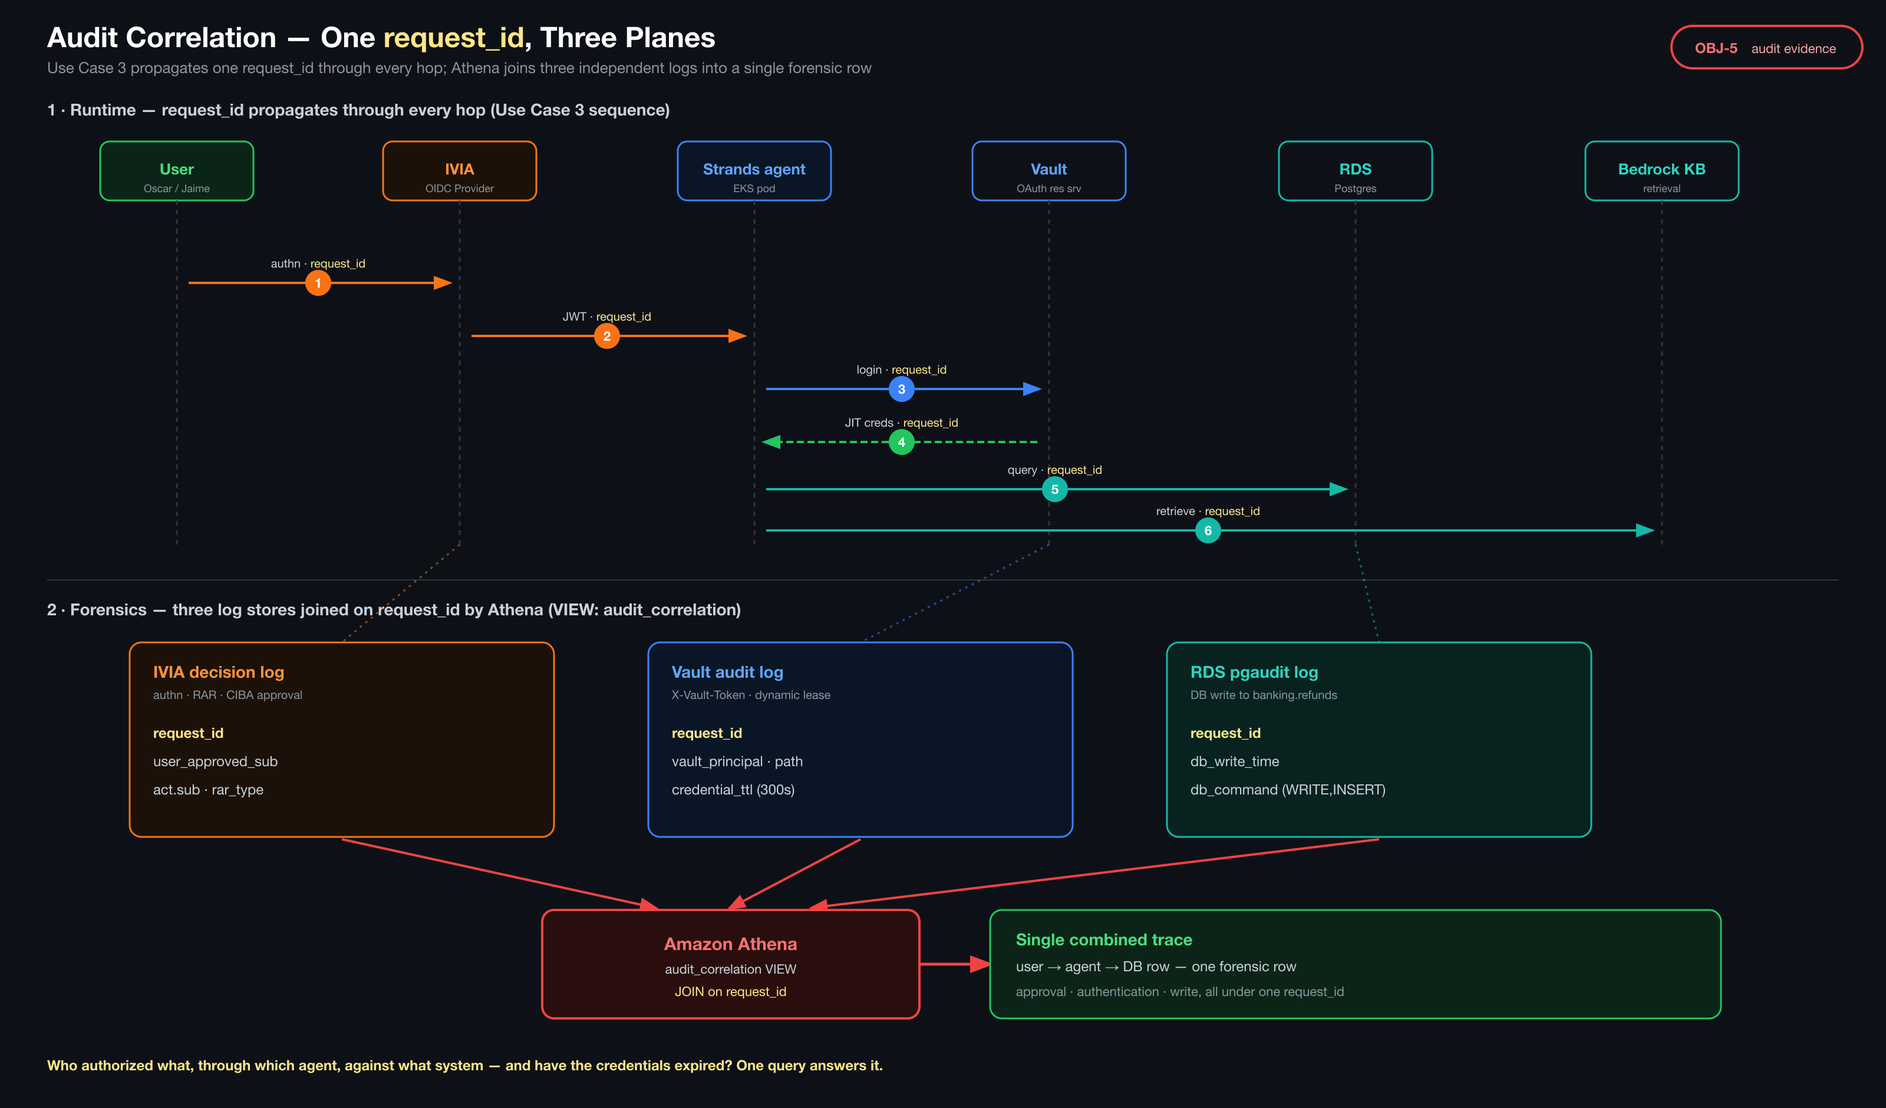
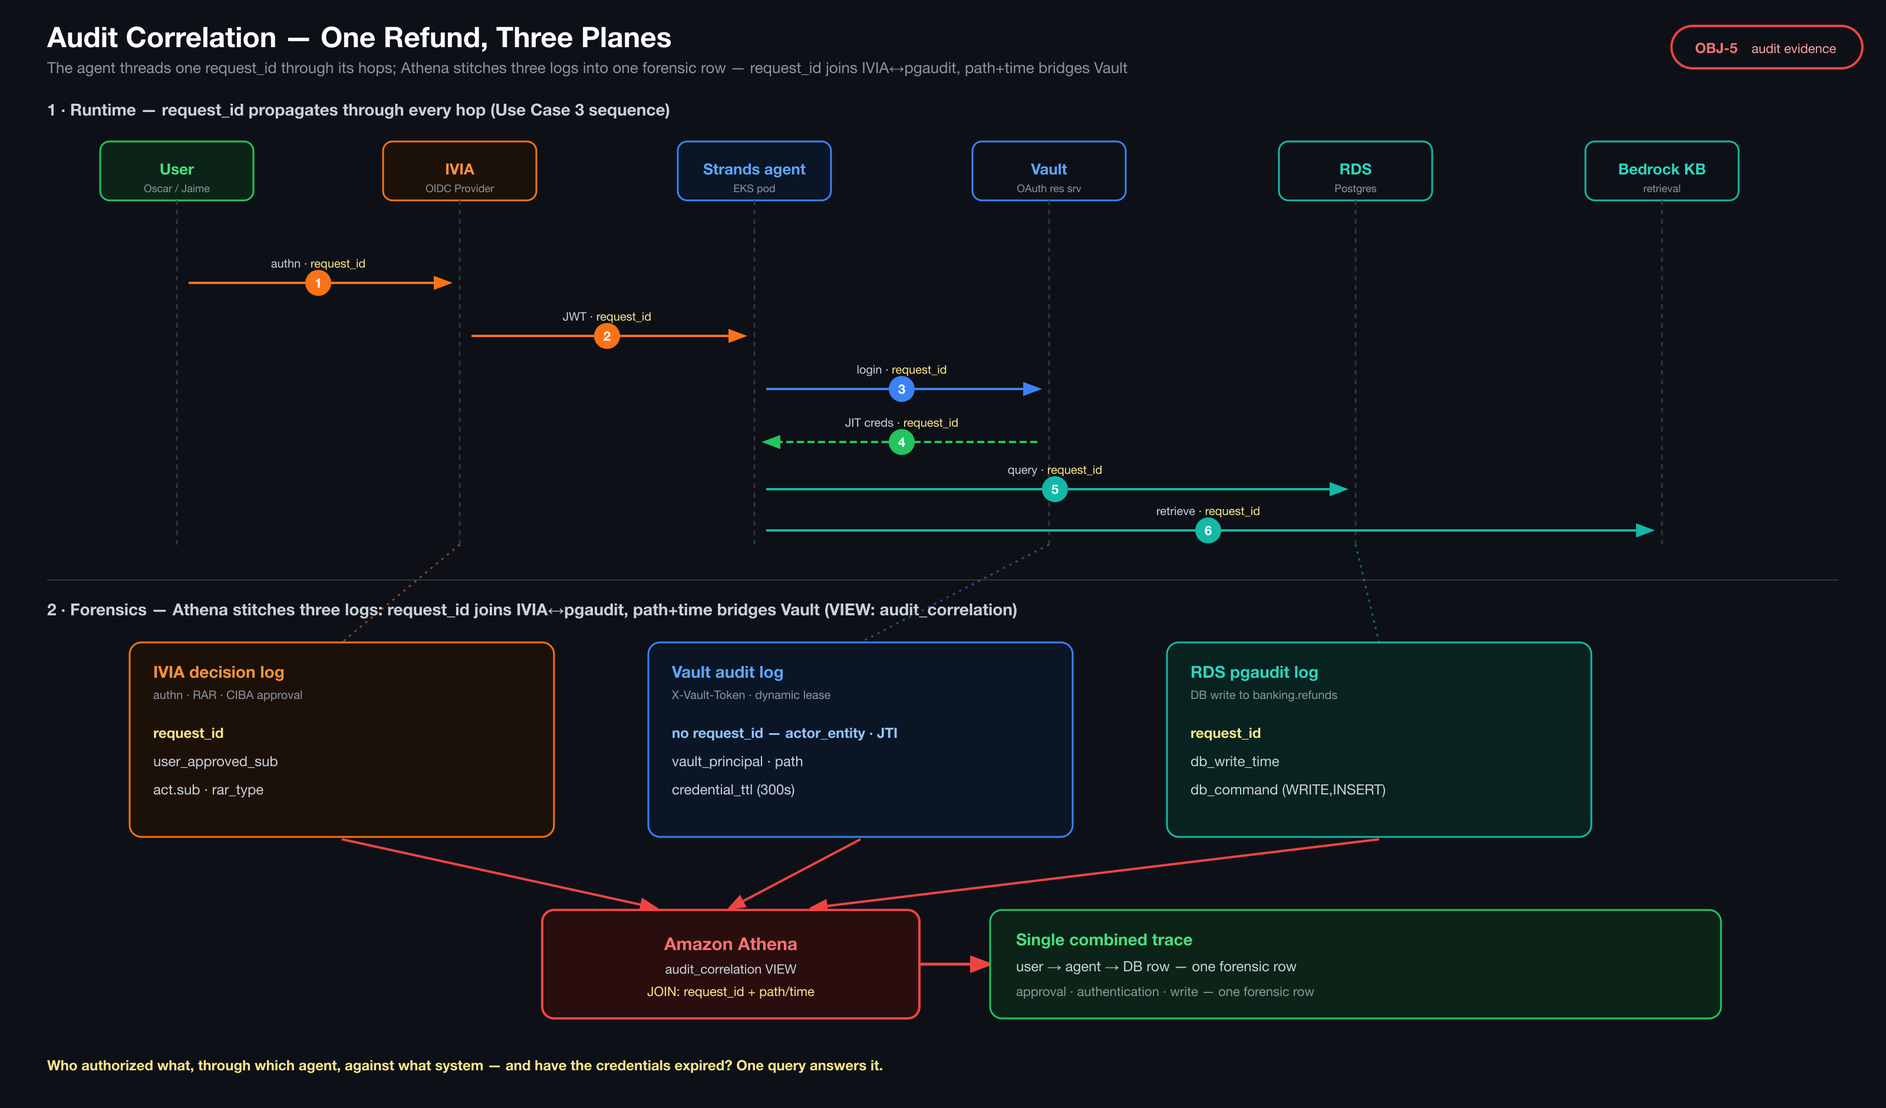
fix(content,deck,diagrams): correct three-plane audit correlation to native model
Native Vault audit logs neither the request_id nor the human sub — only the
delegated token's JTI (auth.display_name) and the resolved agent (uc3-actor). So
'request_id joins all three planes' / 'request_id present in all three planes' is
false for the Vault plane: request_id links the IVIA approval to the pgaudit write;
the Vault authentication binds into the same forensic row by credential path +
sub-second time-proximity to the approval (the same mechanism as the corrected
audit_correlation VIEW). Fixes the overclaim in five-control-objectives (OBJ-5 +
UC3 expand), 74-three-plane-audit (intro, OBJ-5 row, interpretation), 85-summary
(line 25 contradicted line 35), the deck audit slide + speaker notes (which still
described the retired display_name=sub join and sourced vault_agent_registry_id
from ivia.client_id), and the audit-correlation / vault-authorization-flow /
architecture-overview diagrams (PNGs regenerated via package-assets.sh).

diff --git a/workshop/content/70-use-case-3/74-three-plane-audit/index.en.md b/workshop/content/70-use-case-3/74-three-plane-audit/index.en.md
@@ -3,7 +3,7 @@ title: 'Three-Plane Audit Correlation'
 weight: 74
 ---
 
-Each plane logs the same refund independently: IVIA records *who approved*, Vault records *which agent authenticated — by its Agent Registry identity — and the exact path it was scoped to*, and Postgres records *the write that landed*. The `audit_correlation` Athena VIEW stitches all three together on the shared `request_id`, so a single query returns one forensic row spanning approval, authentication, and database write. It was created automatically during Use Case 3 deployment — you only query it.
+Each plane logs the same refund independently: IVIA records *who approved*, Vault records *which agent authenticated — by its Agent Registry identity — and the exact path it was scoped to*, and Postgres records *the write that landed*. The `audit_correlation` Athena VIEW stitches all three together: `request_id` is the shared key between the IVIA approval and the Postgres write, and the Vault authentication binds into the same row by its credential path and its sub-second time-proximity to the approval. A single query returns one forensic row spanning approval, authentication, and database write. It was created automatically during Use Case 3 deployment — you only query it.
 
 Under the native OAuth resource server model, the Vault audit event no longer carries a hand-rolled `may_act` bound-claim; it carries the **agent-registry** identity Vault resolved from the delegated token's `act.sub` claim (`uc3-actor`) and the per-request `vault:path_access` path Vault enforced. Those two fields are what surface in the correlation row below.
 
@@ -17,7 +17,7 @@ Use Case 3 culminates in a single Athena query that answers all five workshop ob
 | OBJ-2 — No standing privileges | `db_credential_ttl` | DB credentials lived for 5 minutes only |
 | OBJ-3 — Action tied to user intent | `user_approved_sub` + `ciba_binding_message` | The user approved this exact `request_id` out-of-band |
 | OBJ-4 — Enforcement at point of use | `vault_agent_registry_id` + `vault_rar_path` | Vault resolved the agent from the Agent Registry and narrowed the token to an exact path per request |
-| OBJ-5 — Correlated audit evidence | `request_id` present in all three planes | IVIA + Vault + pgaudit share a single traceable identifier |
+| OBJ-5 — Correlated audit evidence | `request_id` (IVIA approval ↔ pgaudit write) + Vault bound by path & time | One forensic row spans approval, authentication, and the database write |
 
 ## Run the Correlation Query — CLI
 
@@ -110,7 +110,7 @@ db_command                  WRITE,INSERT
 db_credential_ttl           300
 ```
 
-Every field maps directly to one of the five workshop objectives — `vault_principal` (verifiable agent identity), `db_credential_ttl` of `300` (no standing privilege, 5-minute lease), `user_approved_sub` (action tied to user intent), `vault_agent_registry_id` + `vault_rar_path` (enforcement at point of use — the Agent Registry identity Vault resolved and the exact path it scoped the token to), and the shared `request_id` across all three planes (correlated audit evidence).
+Every field maps directly to one of the five workshop objectives — `vault_principal` (verifiable agent identity), `db_credential_ttl` of `300` (no standing privilege, 5-minute lease), `user_approved_sub` (action tied to user intent), `vault_agent_registry_id` + `vault_rar_path` (enforcement at point of use — the Agent Registry identity Vault resolved and the exact path it scoped the token to), and the correlation across all three planes — `request_id` shared by the IVIA approval and the Postgres write, with the Vault authentication bound in by credential path and time-proximity (correlated audit evidence).
 
 ## Run the Correlation Query — Athena Console
 
@@ -142,13 +142,13 @@ WHERE request_id = 'PASTE_REQUEST_ID_HERE'
 
 A complete row demonstrates that:
 
-1. The same `request_id` appears in the IVIA decision log (user approved), the Vault audit log (agent authenticated by its Agent Registry identity and scoped to an exact path per request), and the pgaudit log (data was written to `banking.refunds`).
+1. The same `request_id` appears in the IVIA decision log (user approved) and the pgaudit log (data was written to `banking.refunds`). The Vault audit log (agent authenticated by its Agent Registry identity and scoped to an exact path per request) deliberately records neither the `request_id` nor the human subject — it is correlated into the same forensic row by its credential path and the sub-second time-proximity of its authentication to the approval.
 2. The `approval_time`, `vault_auth_time`, and `db_write_time` columns show a linear causal chain — approval before auth before write.
 3. The `db_credential_ttl` carries the integer lease TTL in seconds (300 = 5 minutes) the agent observed when Vault issued the per-refund database credential — proof the credential expires shortly after the write, not a standing one.
 4. The `vault_agent_registry_id` column shows the exact agent (`uc3-actor`) Vault resolved from the delegated token's `act.sub` against the Agent Registry, and `vault_rar_path` shows the exact path (`database/creds/uc3-refund-writer`) the per-request `vault:path_access` RAR narrowed the token to — the enforcement Vault applied at the point of use, provable and not assumed.
 
 :::alert{header="How the approved amount is proven — consent-bound by correlation" type="info"}
-The amount the user approved (e.g. `$88.30`) is **not** a column in this VIEW, and it is **not** a Vault-enforced token scope — ISVAOP 25.10 does not expose the consent-time RAR amount at the token-exchange stage (see the [RAR Ceiling](../72-configure-bound-claims/) page). Instead the amount is **consent-bound by the shared `request_id`**: there is exactly **one** CIBA approval and exactly **one** `banking.refunds` write under that `request_id`, and the refund row itself carries the amount. Because the correlation row proves a strict 1:1 binding between the user's out-of-band approval and a single, time-boxed, RAR-gated DB write, the amount written **is** the amount approved — an agent cannot write a different or additional amount under that approval without breaking the correlation. To read the dollar figure directly, look at the `banking.refunds` row for that `request_id`:
+The amount the user approved (e.g. `$88.30`) is **not** a column in this VIEW, and it is **not** a Vault-enforced token scope — ISVAOP 25.10 does not expose the consent-time RAR amount at the token-exchange stage (see the [RAR Ceiling](../72-configure-rar-ceiling/) page). Instead the amount is **consent-bound by the shared `request_id`**: there is exactly **one** CIBA approval and exactly **one** `banking.refunds` write under that `request_id`, and the refund row itself carries the amount. Because the correlation row proves a strict 1:1 binding between the user's out-of-band approval and a single, time-boxed, RAR-gated DB write, the amount written **is** the amount approved — an agent cannot write a different or additional amount under that approval without breaking the correlation. To read the dollar figure directly, look at the `banking.refunds` row for that `request_id`:
 
 ```sql
 SELECT request_id, refund_id, account_id, transaction_id, amount, currency, approved_by, created_at

diff --git a/slides.md b/slides.md
@@ -349,7 +349,7 @@ Effective grant = ① baseline ∩ ② ceiling ∩ ③ RAR. Miss any one → den
 <p class="uc-footer">amount is NOT a claim — ISVAOP can't expose consent-time RAR to a mapping rule; it's consent-bound via audit correlation</p>
 
 Note:
-Vault denies the write credential unless the signature validates against IVIA's JWKS (RS256) AND all three layers intersect: the `sub` resolves to jaime's entity (baseline), the `act.sub` resolves the `uc3-actor` agent in the Agent Registry and applies its `uc3-agent-ceiling`, and the per-request `vault:path_access` RAR path matches the creds path being read. The RAR is mandatory here — the `uc3-actor` registration sets `optional_authorization_details=false`, so a token with no RAR (or the wrong path) is denied. Two honesty points for a sharp audience: (1) the role is NOT `BYPASSRLS`, so RLS still applies to the write as defense-in-depth; (2) the approved amount is deliberately not a JWT claim — ISVAOP 25.10 doesn't expose the consent-time `authorization_details` to any mapping rule at mint or exchange, and a glob bound_claim couldn't enforce a number anyway. The amount is bound by three-plane audit correlation on request_id, which is the next major slide. Credential lives 5 minutes.
+Vault denies the write credential unless the signature validates against IVIA's JWKS (RS256) AND all three layers intersect: the `sub` resolves to jaime's entity (baseline), the `act.sub` resolves the `uc3-actor` agent in the Agent Registry and applies its `uc3-agent-ceiling`, and the per-request `vault:path_access` RAR path matches the creds path being read. The RAR is mandatory here — the `uc3-actor` registration sets `optional_authorization_details=false`, so a token with no RAR (or the wrong path) is denied. Two honesty points for a sharp audience: (1) the role is NOT `BYPASSRLS`, so RLS still applies to the write as defense-in-depth; (2) the approved amount is deliberately not a JWT claim — ISVAOP 25.10 doesn't expose the consent-time `authorization_details` to any mapping rule at mint or exchange, and a glob bound_claim couldn't enforce a number anyway. The amount is bound by the 1:1 `request_id` correlation between the CIBA approval and the single `banking.refunds` write — surfaced on the three-plane audit slide next. Credential lives 5 minutes.
 
 ---
 
@@ -372,14 +372,14 @@ Check 14 closes the obvious door — you can't forge with a symmetric key becaus
 
 ---
 
-## One request_id, three planes
+## One refund — three planes, one row
 
 <img src="assets/audit-correlation.svg" style="max-height: 460px;" />
 
-A single Athena view **`audit_correlation`** (12 cols) stitches **IVIA decision · Vault audit · RDS pgaudit**. `request_id` anchors IVIA↔pgaudit; Vault is bridged by **principal + path + ±30s**.
+A single Athena view **`audit_correlation`** (11 cols) stitches **IVIA decision · Vault audit · RDS pgaudit**. `request_id` anchors IVIA↔pgaudit; Vault is bridged by **path + response event + ±30s** (nearest match).
 
 Note:
-The pedagogical money shot — and here's the honest mechanism an expert will want. IVIA emits a decision record carrying the agent's `request_id` (it was the CIBA `binding_message`). The agent embeds that same UUID as a `/* uc3_request_id=… */` SQL comment, which pgaudit logs verbatim and the view regex-extracts — so IVIA and Postgres correlate directly on request_id. Vault's native audit `request.id` is a different value, so the view bridges Vault by composite key: principal `<sub>` (the native OAuth resource server resolves the human entity from `user_claim=sub`, so the audited principal is the bare sub — not the retired `jwt-<sub>`), path `database/creds/uc3-refund-writer`, response event, within a ±30s window. The `vault_agent_registry_id` column comes from the IVIA decision plane (`client_id` — the `uc3-actor` OAuth exchange client), and `vault_rar_path` is the exact `database/creds/…` path the per-request `vault:path_access` RAR scoped the token to — since Phase 9 retired the jwt claim-mappings that once stamped those into Vault metadata. Three CloudWatch log groups → Firehose (decompress + extract) → S3 → Glue → one Athena view. The correlated row is on the next slide.
+The pedagogical money shot — and here's the honest mechanism an expert will want. IVIA emits a decision record carrying the agent's `request_id` (it was the CIBA `binding_message`). The agent embeds that same UUID as a `/* uc3_request_id=… */` SQL comment, which pgaudit logs verbatim and the view regex-extracts — so IVIA and Postgres correlate directly on request_id. Vault's native audit carries neither the `request_id` nor the human sub — `auth.display_name` is the delegated token's JTI (`JWT Token with JTI: …`), not a name — so the view bridges Vault by what it *does* share with the approval: the creds path `database/creds/uc3-refund-writer`, a response event, within a ±30s window, keeping the vault response nearest in time to each approval (deterministic when refunds cluster). The `vault_agent_registry_id` and the agent half of `vault_principal` come from Vault's own `auth.metadata['actor_entity_name']` (`uc3-actor` — the Agent Registry actor Vault resolved from `act.sub`), NOT the IVIA `client_id` (`agent-uc3`, the CIBA exchange client that never authenticates to Vault); `vault_rar_path` is the exact `database/creds/…` path the per-request `vault:path_access` RAR scoped the token to. Three CloudWatch log groups → Firehose (decompress + extract) → S3 → Glue → one Athena view. The correlated row is on the next slide.
 
 ---
 
@@ -396,7 +396,7 @@ db_credential_ttl  300
 One row answers: **who approved, when, what claims Vault bound them to, what write landed, and the credential's TTL.**
 
 Note:
-This single row is the auditor's answer. The TTL column comes from the value the agent observed in the Vault creds response and threaded into its IVIA anchor — because the `database/creds` read response doesn't log a numeric duration. Read it left-to-right across the three planes: IVIA says jaime approved at 15:20:47; Vault says principal `uc3-actor (on behalf of jaime)` was vended `database/creds/uc3-refund-writer` — the agent (`vault_agent_registry_id=uc3-actor`) scoped by the per-request `vault:path_access` RAR to that exact path — at a 300-second TTL; RDS pgaudit says an INSERT write landed on `banking.refunds` at the same instant — all keyed by the one `request_id`.
+This single row is the auditor's answer. The TTL column comes from the value the agent observed in the Vault creds response and threaded into its IVIA anchor — because the `database/creds` read response doesn't log a numeric duration. Read it left-to-right across the three planes: IVIA says jaime approved at 15:20:47; Vault says principal `uc3-actor (on behalf of jaime)` was vended `database/creds/uc3-refund-writer` — the agent (`vault_agent_registry_id=uc3-actor`) scoped by the per-request `vault:path_access` RAR to that exact path — at a 300-second TTL; RDS pgaudit says an INSERT write landed on `banking.refunds` at the same instant — correlated into one row: `request_id` keys IVIA↔the write, and Vault is bridged in by its creds path and same-instant timing.
 
 ---
 

diff --git a/workshop/content/10-introduction/11-five-control-objectives/index.en.md b/workshop/content/10-introduction/11-five-control-objectives/index.en.md
@@ -9,7 +9,7 @@ This workshop focuses on five control objectives for agentic systems:
 2. **No standing privileges** — credentials are issued just-in-time, scoped to the request, and revoked when the work is done; each registered agent carries a `ceiling_policies` envelope that bounds the maximum it can ever hold when acting for a human.
 3. **Actions tied to user intent** — privileged actions require demonstrable user consent (OAuth Authorization Code + PKCE for read access, CIBA out-of-band for writes).
 4. **Enforcement at the point of use** — Vault is the decision point. The IVIA-issued OAuth JWT authorizes Vault directly via the `X-Vault-Token` header (the `ivia` OAuth resource-server profile), and Vault narrows the token per request through `authorization_details` of `type: vault:path_access`. Defense-in-depth still layers DB GRANTs + AWS IAM and Kubernetes NetworkPolicy underneath, so a compromise of any one layer doesn't bypass the others.
-5. **Correlated audit evidence** — a single propagated `request_id` joins IVIA decision logs, HashiCorp Vault audit logs (carrying the agent-registry identity), and RDS pgaudit logs in Athena.
+5. **Correlated audit evidence** — a shared `request_id` links the IVIA decision log (approval) and the RDS pgaudit log (the write), and the HashiCorp Vault audit log — which carries the agent-registry identity Vault resolved but deliberately logs no human subject or `request_id` — binds into the same forensic row by the exact credential path and the sub-second time-proximity of its authentication to that approval. Athena stitches all three planes into one row.
 
 ## Three use cases, in order
 
@@ -24,6 +24,6 @@ The agent now requires a user JWT (Authorization Code + PKCE flow against IVIA).
 :::
 
 :::expand{header="Use Case 3 — CIBA privileged + three-plane audit correlation"}
-Privileged actions trigger a CIBA out-of-band approval flow. The resulting delegated JWT carries `act.sub`=`uc3-actor` (RFC 8693 Token Exchange) and `authorization_details` of `type: vault:path_access` (RFC 9396 RAR). Vault enforces the three-layer intersection natively: the human `sub` baseline ∩ the `uc3-agent-ceiling` (resolved from the actor) ∩ the **mandatory** per-request RAR. A bypass test confirms that a JWT whose RAR path differs is denied even when the entity's policy would permit the path. A single Athena query joins IVIA decision logs + Vault audit logs + RDS pgaudit logs by `request_id` and answers "Which user authorized this action, when, against what system, and was access revoked?" **Demonstrates all 5 Objectives.**
+Privileged actions trigger a CIBA out-of-band approval flow. The resulting delegated JWT carries `act.sub`=`uc3-actor` (RFC 8693 Token Exchange) and `authorization_details` of `type: vault:path_access` (RFC 9396 RAR). Vault enforces the three-layer intersection natively: the human `sub` baseline ∩ the `uc3-agent-ceiling` (resolved from the actor) ∩ the **mandatory** per-request RAR. A bypass test confirms that a JWT whose RAR path differs is denied even when the entity's policy would permit the path. A single Athena query stitches the IVIA decision log, the Vault audit log, and the RDS pgaudit log into one forensic row — `request_id` links the approval to the write, and the Vault authentication binds in by credential path + time-proximity — and answers "Which user authorized this action, when, against what system, and was access revoked?" **Demonstrates all 5 Objectives.**
 :::
 

diff --git a/workshop/content/85-summary/index.en.md b/workshop/content/85-summary/index.en.md
@@ -22,7 +22,7 @@ The table below maps each workshop use case to the native Vault capability it de
 | **Use Case 1** — Vault Kubernetes auth binds the agent ServiceAccount to the `uc1-readonly` policy with JIT credentials (TTL 15m); the agent is registered as `uc1-agent` | **Agent Registry** — the agent holds a first-class registry identity. Because Use Case 1 presents no OAuth actor, its `uc1-ceiling` is inert (informational only); the `uc1-readonly` Kubernetes policy is the enforcement floor |
 | **Use Case 2** — IVIA OAuth Authorization Code + PKCE → the user's OAuth JWT authorizes Vault directly via `X-Vault-Token` against the `ivia` resource-server profile | **OAuth resource server + On-Behalf-Of (OBO) delegation** — the human `sub` contributes the human baseline, the `act.sub`=`agent-uc2` actor contributes the `uc2-agent-ceiling`, tracked in the Agent Registry |
 | **Use Case 3** — the delegated CIBA JWT carries `act.sub`=`uc3-actor` and `authorization_details` of `type: vault:path_access`, enforced by Vault per request | **Ceiling intersection + mandatory per-request RAR** — Vault narrows the token to the exact path/capability for that one refund and denies any request whose RAR path differs |
-| **Use Case 3** — three-plane audit correlation (IVIA + Vault + RDS pgaudit joined by `request_id`) | **End-to-end tracing and attribution** — audit events carry the agent-registry identity; correlation reads "agent X acting for human Y" |
+| **Use Case 3** — three-plane audit correlation (IVIA approval + RDS pgaudit write joined by `request_id`; the Vault authentication is bound into the same row by credential path & time-proximity) | **End-to-end tracing and attribution** — audit events carry the agent-registry identity; correlation reads "agent X acting for human Y" |
 | All use cases — no standing privileges; credentials expire with the token lifecycle | **Ephemeral per-request authorization** — permissions bind to the token's lifecycle; when the token expires, the agent cannot take further action |
 
 ### How the Native Layers Map to the Five Control Objectives
